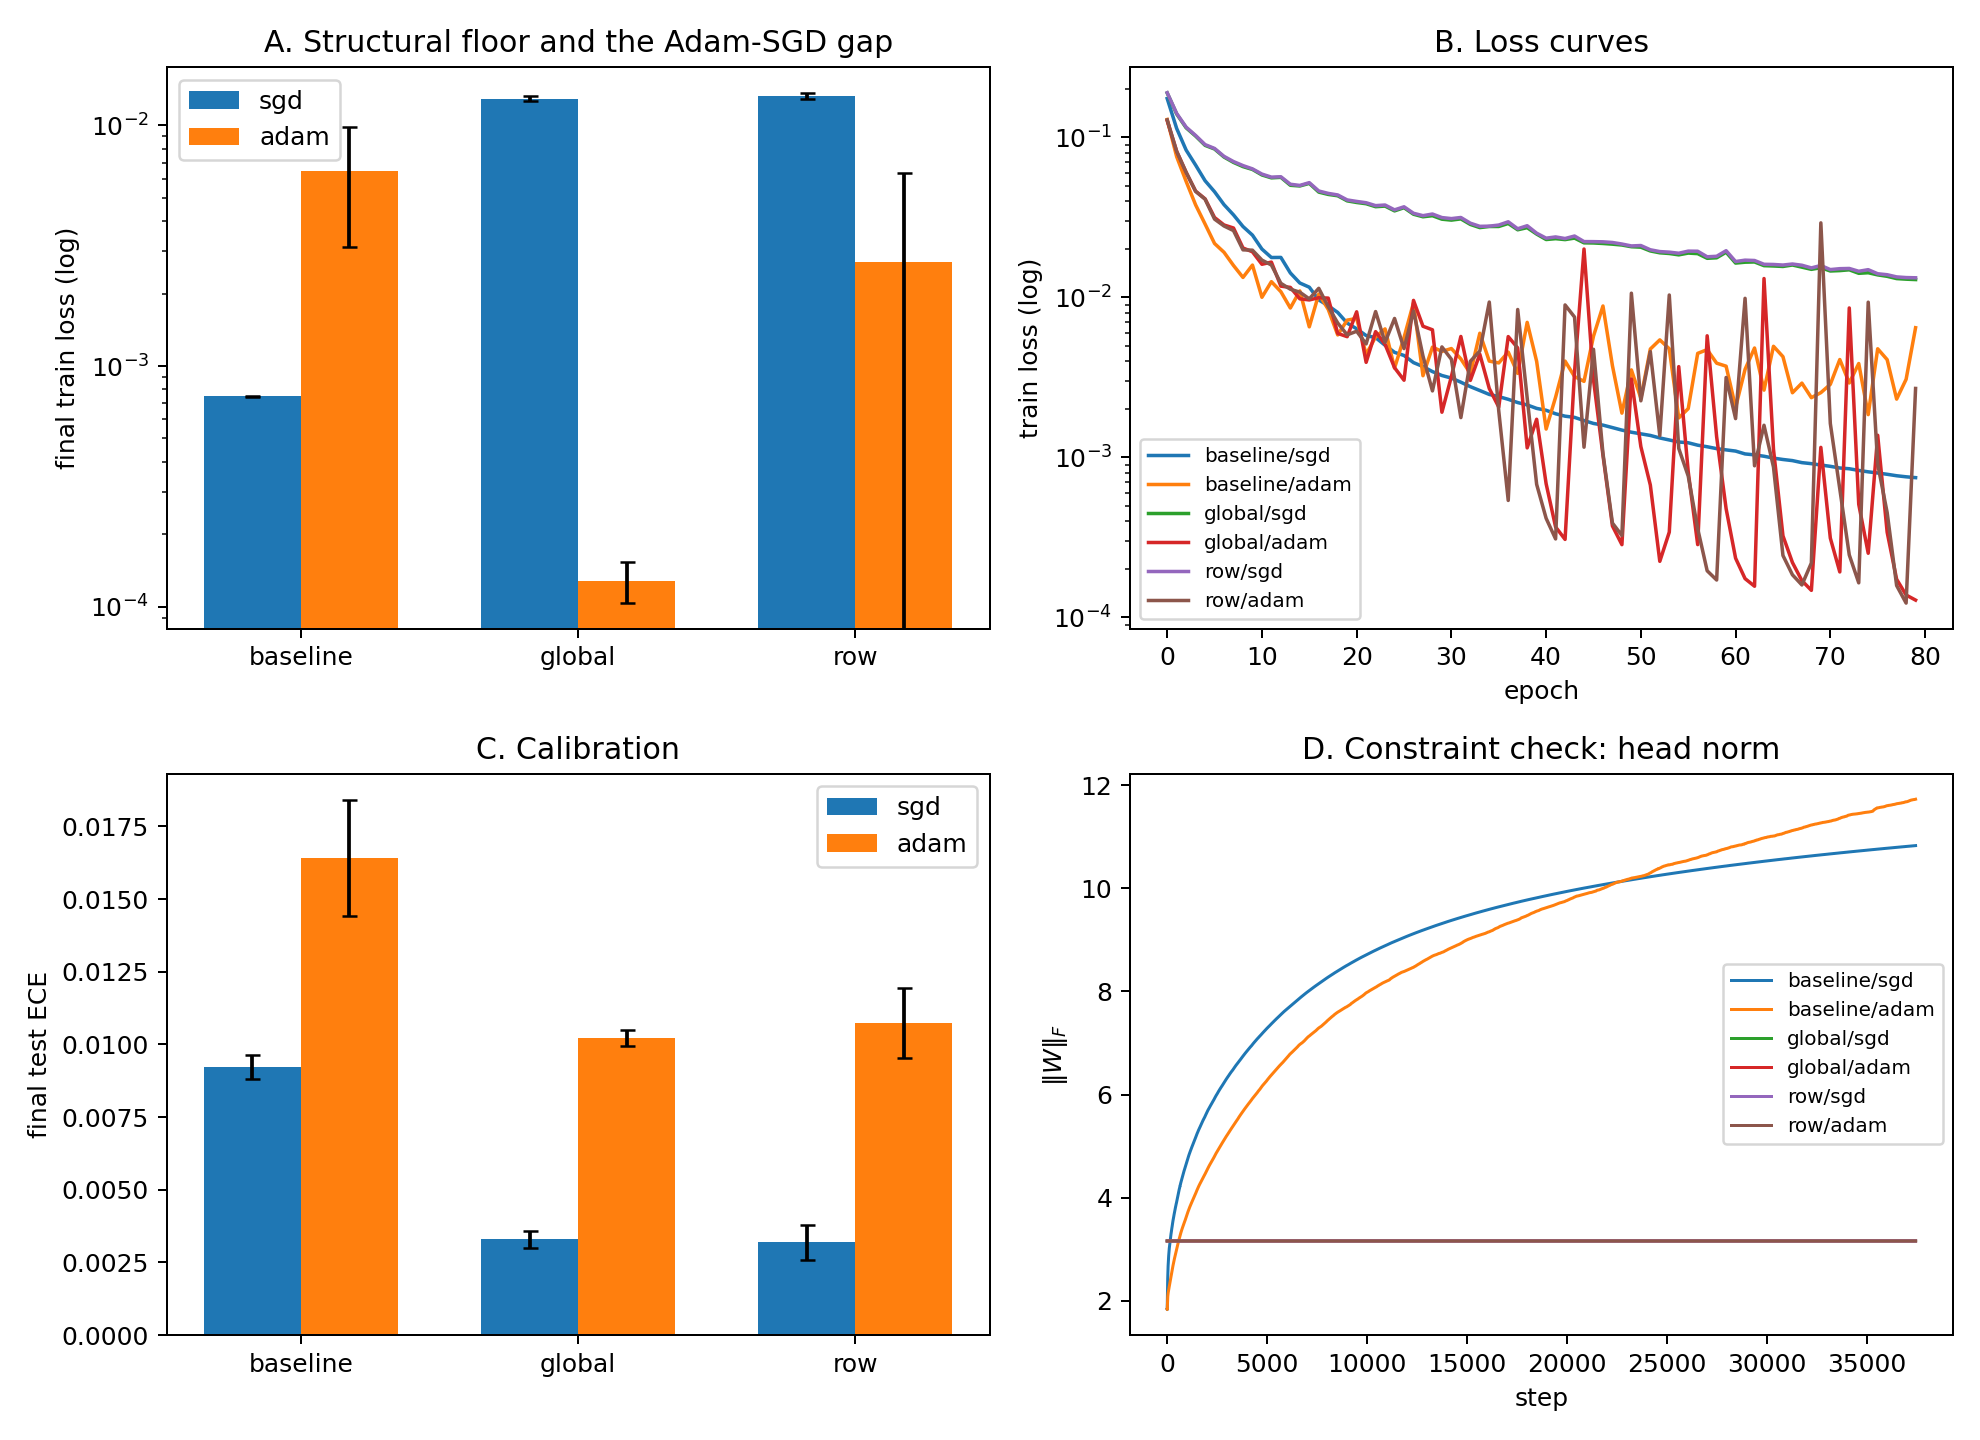
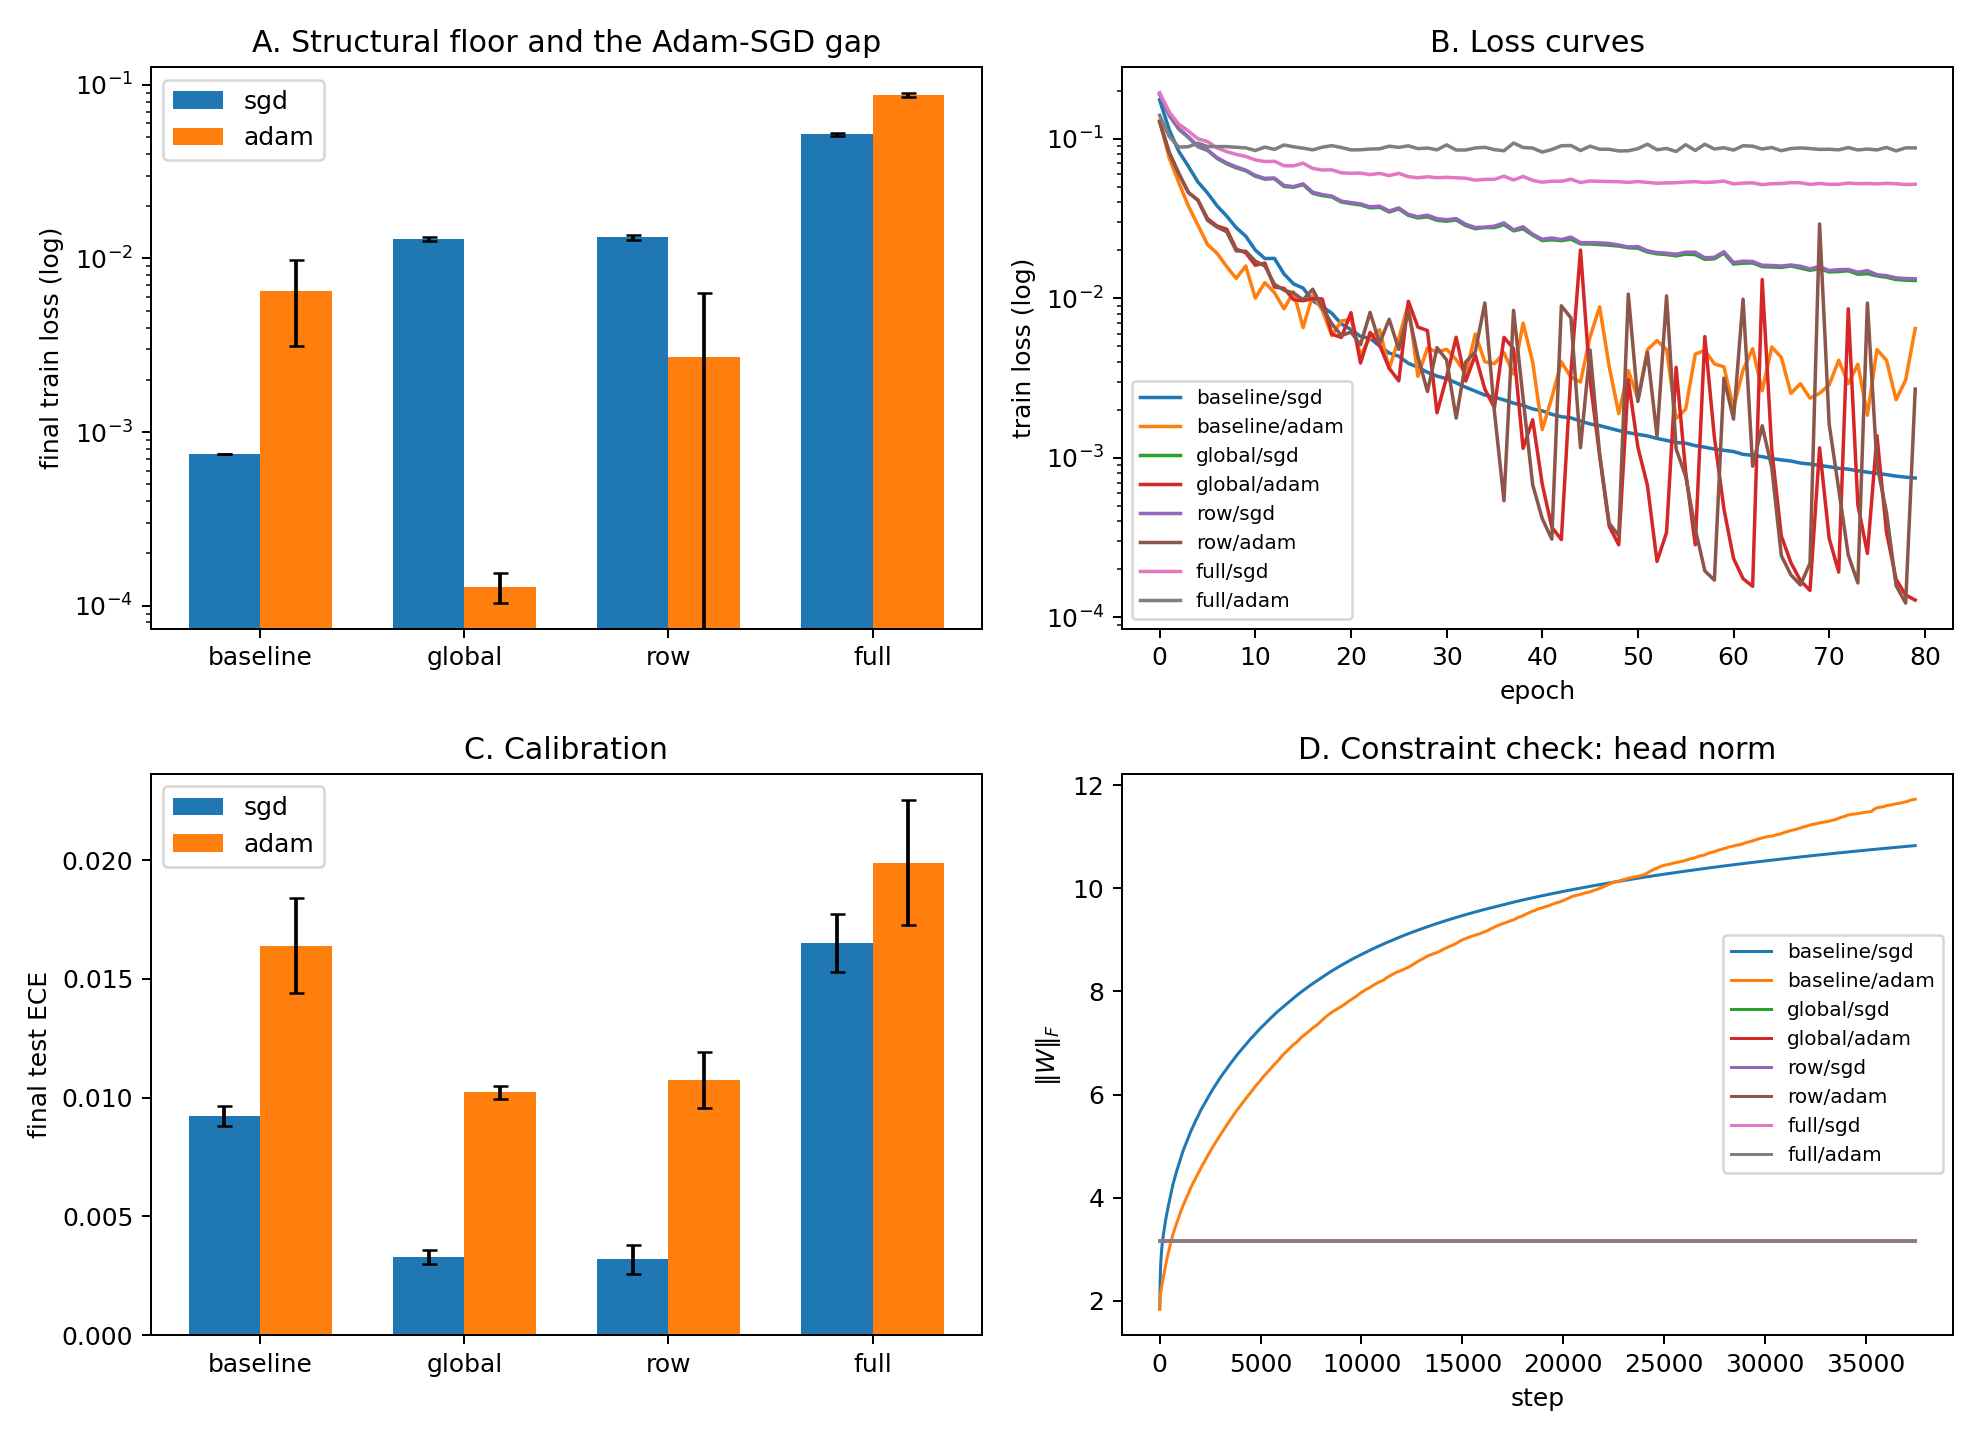
E2 complete: full grid, figure, and lab report
SGD + head constraint confirms P6 cleanly: 18x loss floor, accuracy
unchanged, ECE -65%. Adam tunnels through the homogeneous body (no floor
under head-only constraints); the 'full' arm closes the leak but
overshoots into under-confidence (ECE worsens) -- volume control is a
dial, not a switch. P7 not evaluable here: the 2601 Adam anomaly does not
reproduce in the supervised testbed. P8 answered: row and global arms are
indistinguishable; juicing is one global scale.

https://claude.ai/code/session_01PUVSn4AWHdQFYVTS9EUvNX

diff --git a/reports/e2_intervention.md b/reports/e2_intervention.md
@@ -1,0 +1,108 @@
+# E2 lab report — the intervention
+
+Date: 2026-06-10. Written immediately after the runs, before drafting.
+
+## Setup
+
+- Same MNIST MLP as E1 (784→256→bias-free head). 80 epochs, seeds {0, 1, 2},
+  SGD lr 0.1 and Adam lr 1e-3. Four arms:
+  - **baseline** — unconstrained;
+  - **global** — ‖W‖_F of the head projected to √10 after every step
+    (fixed global temperature);
+  - **row** — head rows projected to unit norm after every step;
+  - **full** — row constraint on the head **plus** the body layer's (W1, b1)
+    jointly projected to its init norm. Added by amendment A2 after the first
+    grid exposed leakage (below).
+- All constraints are post-step projections, not weight-norm
+  reparametrization: the radial DOF is removed from the iterate without
+  changing the gradient geometry. (Optimization-side reviewers: projection
+  keeps the unconstrained gradient field and projects the *iterate*;
+  reparametrization changes the gradient itself via the chain rule. The two
+  have different dynamics; we test the former.)
+- Metrics: `results/e2/*.json` (24 runs); figure regenerates via
+  `src/fig_e2.py`. The second testbed (2601 decoder-free SAE) is deferred —
+  separate repo, name to be resolved.
+
+## Results (3-seed mean ± std)
+
+| arm      | opt  | final train loss | test acc | test ECE |
+|----------|------|------------------|----------|----------|
+| baseline | sgd  | 0.0007 ± 0.0000  | 0.9824   | 0.0092   |
+| baseline | adam | 0.0065 ± 0.0034  | 0.9806   | 0.0164   |
+| global   | sgd  | 0.0129 ± 0.0003  | 0.9826   | **0.0033** |
+| global   | adam | 0.0001 ± 0.0000  | 0.9838   | 0.0102   |
+| row      | sgd  | 0.0133 ± 0.0004  | 0.9823   | **0.0032** |
+| row      | adam | 0.0027 ± 0.0037  | 0.9833   | 0.0107   |
+| full     | sgd  | 0.0519 ± 0.0009  | 0.9791   | 0.0165   |
+| full     | adam | 0.0876 ± 0.0025  | 0.9707   | 0.0199   |
+
+Constraint sanity: baseline head norm grows 3.2 → ~12; all constrained arms
+hold ‖W‖_F = 3.162 exactly (figure panel D).
+
+## Results against registered predictions
+
+**P6 (structural floor / accuracy unchanged / ECE −30%) — PASS for SGD with
+head constraints; the rest is a split that is more informative than a pass.**
+
+- *SGD + row/global*: train loss plateaus at ~0.013, an 18× floor above
+  baseline, while test accuracy is unchanged (Δ < 0.1%) and ECE improves
+  **64–65%**. This is the registered prediction, confirmed cleanly.
+- *Adam + row/global*: **no floor** — Adam reaches 0.0001–0.0027, lower than
+  its own unconstrained baseline. See Surprise 1.
+- *full*: a genuine floor for both optimizers (0.05–0.09), but accuracy drops
+  0.3% (SGD) / 1.0% (Adam) and **ECE worsens** relative to baseline. See
+  Surprise 2. P6's accuracy clause fails on full/adam; the ECE clause fails on
+  both full arms.
+
+**P7 (Adam–SGD gap closes) — NOT EVALUABLE AS REGISTERED on this testbed.**
+The premise (Adam reaches lower loss than SGD at baseline — the 2601 anomaly)
+does not reproduce in this supervised CE setting: baseline SGD's final loss is
+~10× *lower* than Adam's (0.0007 vs 0.0065). The gap's sign then flips arm by
+arm (+ under head constraints, − under full). The 2601 anomaly is apparently
+specific to the SAE/LSE+InfoMax setting; evaluating P7 requires that testbed
+(blocked on the separate repo). Recorded plainly rather than reinterpreted.
+
+**P8 (global vs per-row attribution) — ANSWERED: juicing is global.** The row
+and global arms are statistically indistinguishable in every metric (loss
+floor 0.0129 vs 0.0133; ECE 0.0033 vs 0.0032; accuracy identical). Per-row
+volume freedom beyond global temperature contributes nothing measurable on
+this task — consistent with E1's small ρ_row − ρ_global gap (~0.006). For the
+EM framing: the missing volume term is, empirically, one global scale, not K
+per-component scales.
+
+## Surprises (recorded before narrative shaping)
+
+1. **Head-only constraints leak, and Adam finds the leak.** With the head
+   frozen at fixed norm, the homogeneous body (Linear+ReLU) re-creates the
+   scale DOF; Adam drives through it to *lower-than-baseline* loss while SGD
+   barely uses it (SGD's persistence at the floor vs Adam's tunneling is
+   visible in the loss curves, panel B — Adam's constrained curves oscillate
+   violently around 1e-4). This is the README's "deep-network scale leakage"
+   risk demonstrated with a single hidden layer, it directly previews E3's
+   mechanism (Adam pursues the small-but-persistent scale gradient wherever it
+   lives), and it means E2-style interventions must be stated as *whole-network*
+   claims or they are not interventions at all. LogitNorm (output-level
+   normalization) is immune to this leak by construction — worth one sentence
+   in the draft.
+2. **Closing the leak overshoots: the full constraint causes
+   under-confidence.** With both layers norm-constrained, the model cannot
+   reach the confidence its accuracy warrants; ECE *worsens* (0.0165/0.0199 vs
+   0.0092 baseline) and accuracy drops — the body projection binds structural
+   directions (feature learning needs norm growth in the body), not just
+   scale. Volume control is therefore a *calibration dial, not a switch*: the
+   best calibration in the study is head-only constraint + SGD (ECE 0.0033),
+   where the radial DOF is suppressed at the output but features remain free.
+   This refines E4's expectation: fixes should help in proportion to radial
+   suppression *up to* the point where they bind structure.
+3. **Baseline Adam is worse-calibrated than baseline SGD** (0.0164 vs 0.0092)
+   at similar accuracy — consistent with Adam allocating more budget to
+   confidence sharpening, which E3 measures directly.
+
+## Verdict for the paper
+
+The causal claim survives in its precise form: removing the scale DOF *of the
+whole function* halts the loss descent (floor), and removing it at the output
+improves calibration substantially at zero accuracy cost — but only for the
+optimizer that wasn't actively hunting the leak. The leakage result upgrades a
+README risk into a headline finding and hands E3 its motivation. P7 moves to
+the SAE testbed. Proceed to E3.